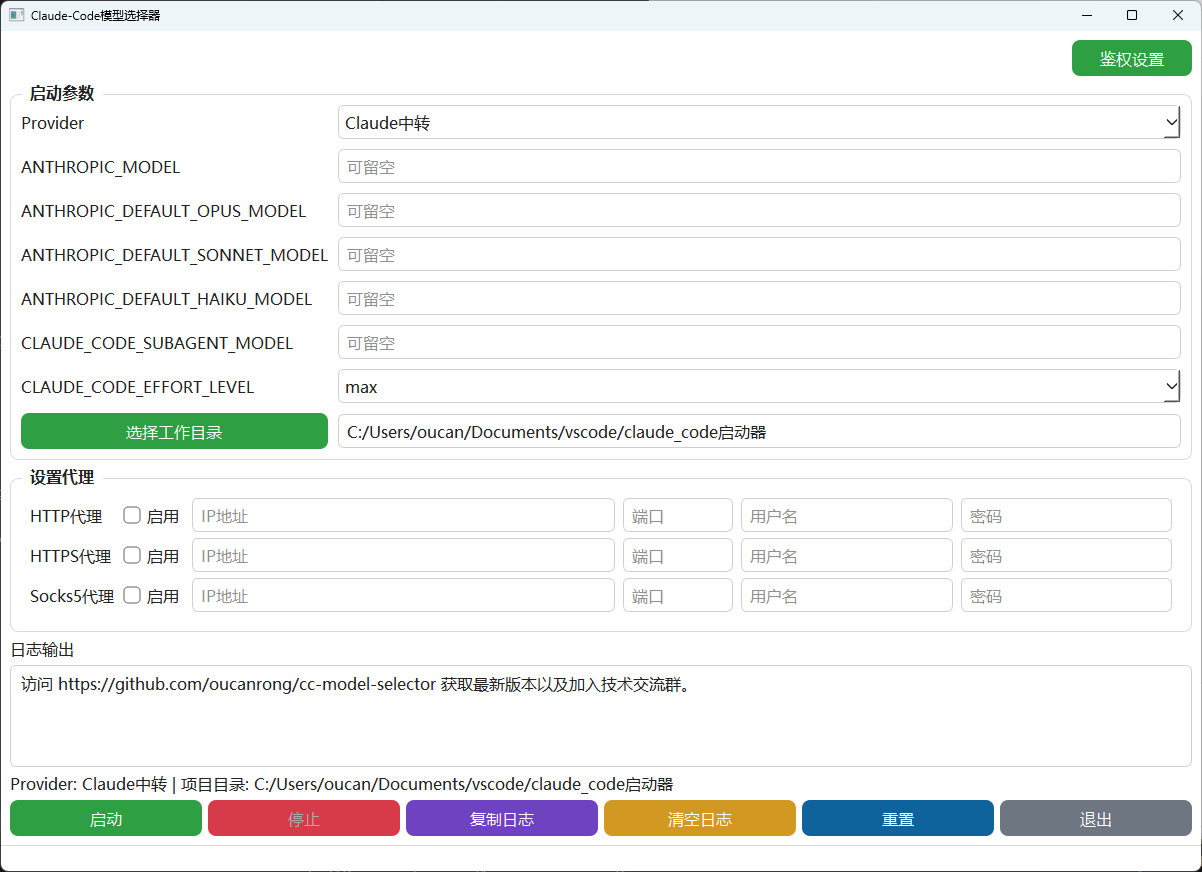
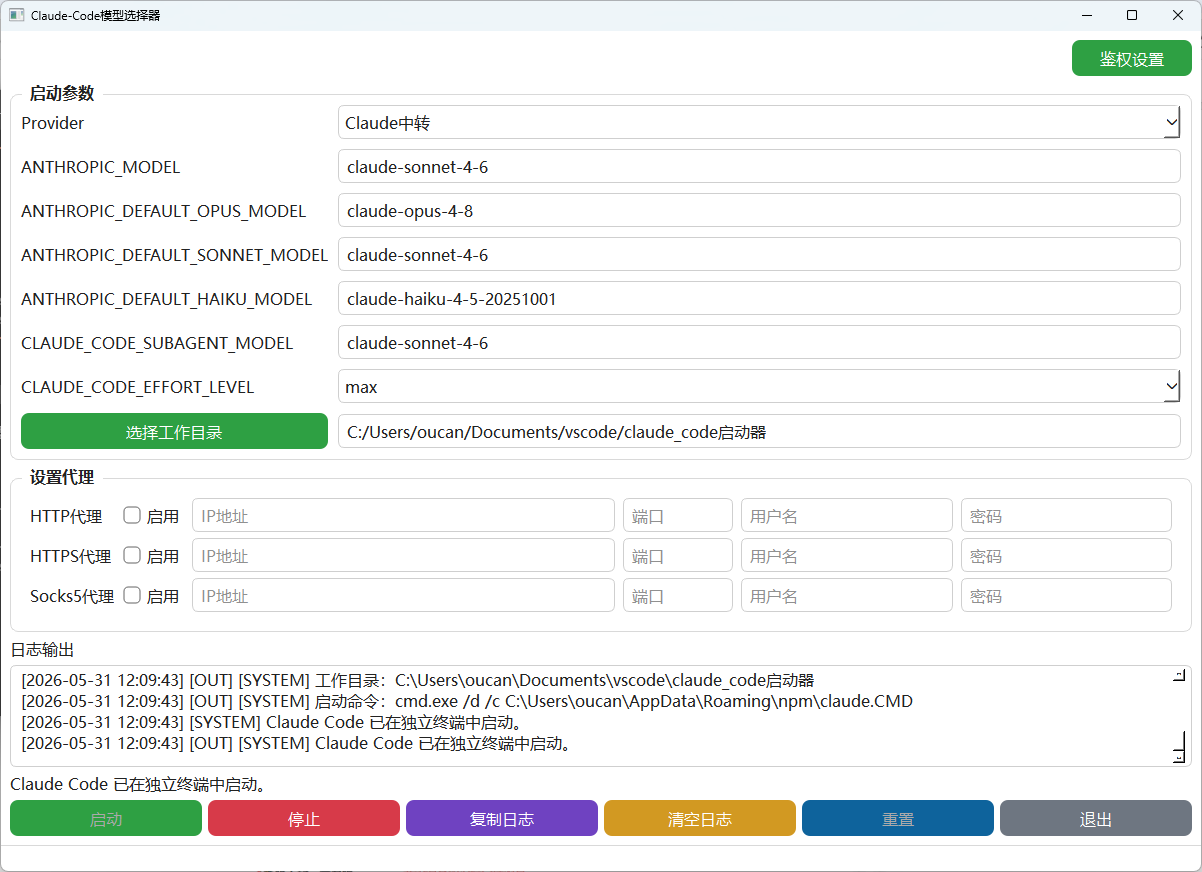
支持第3方中转API

diff --git a/README.md b/README.md
@@ -46,6 +46,9 @@
 4.5 支持第3方claude中转
 ![选择3方claude中转](https://github.com/oucanrong/cc-model-selector/blob/main/screenshot/05-claude-proxy.png)
 
+![使用3方claude中转](https://github.com/oucanrong/cc-model-selector/blob/main/screenshot/05b-claude-proxy.png)
+
+
 4.6 支持第3方GPT中转
 ![选择3方GPT中转](https://github.com/oucanrong/cc-model-selector/blob/main/screenshot/06-gpt-proxy.png)
 